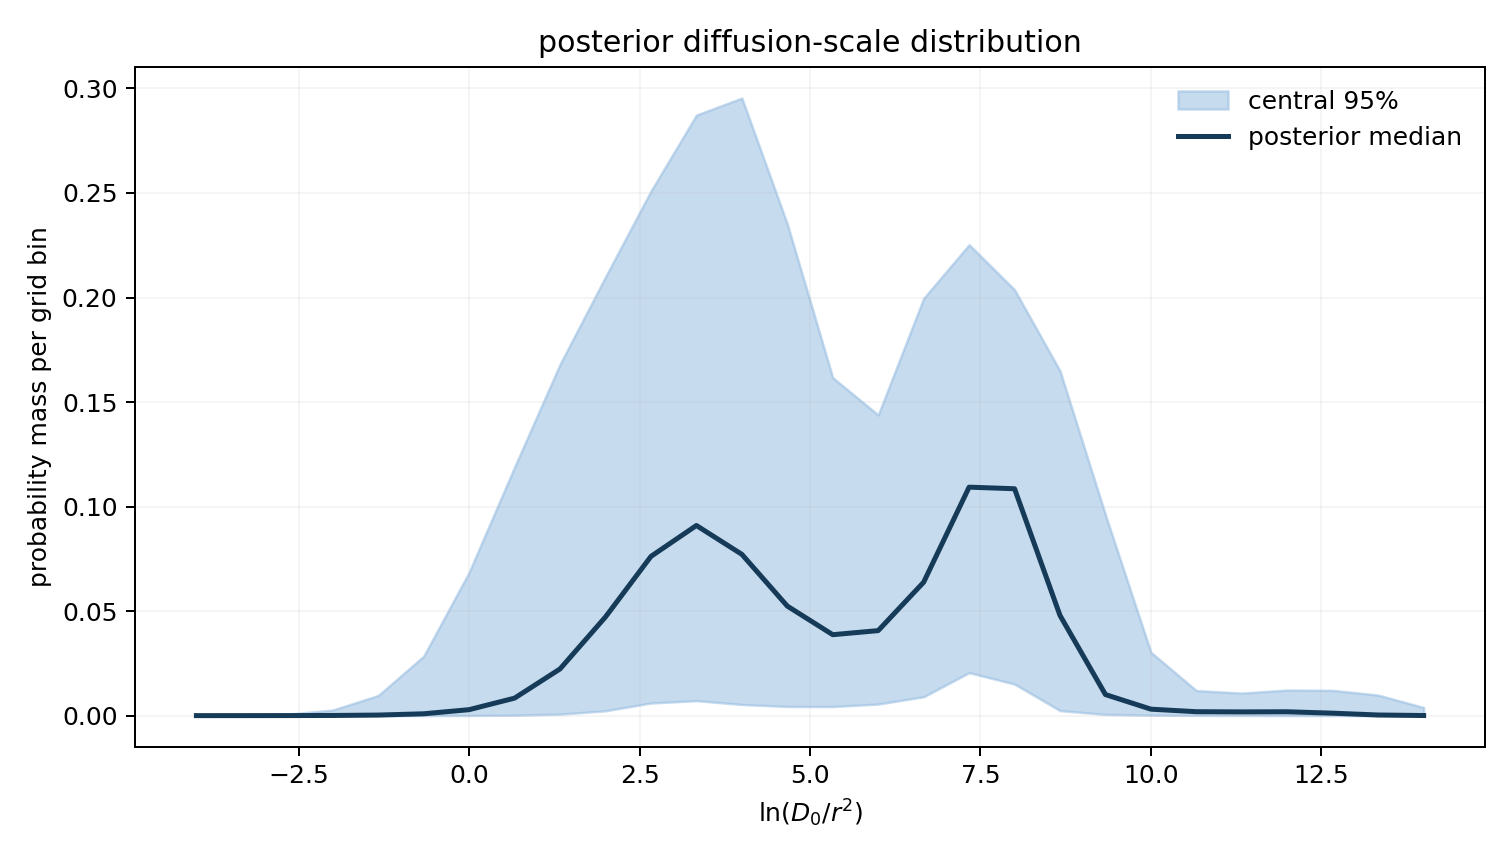
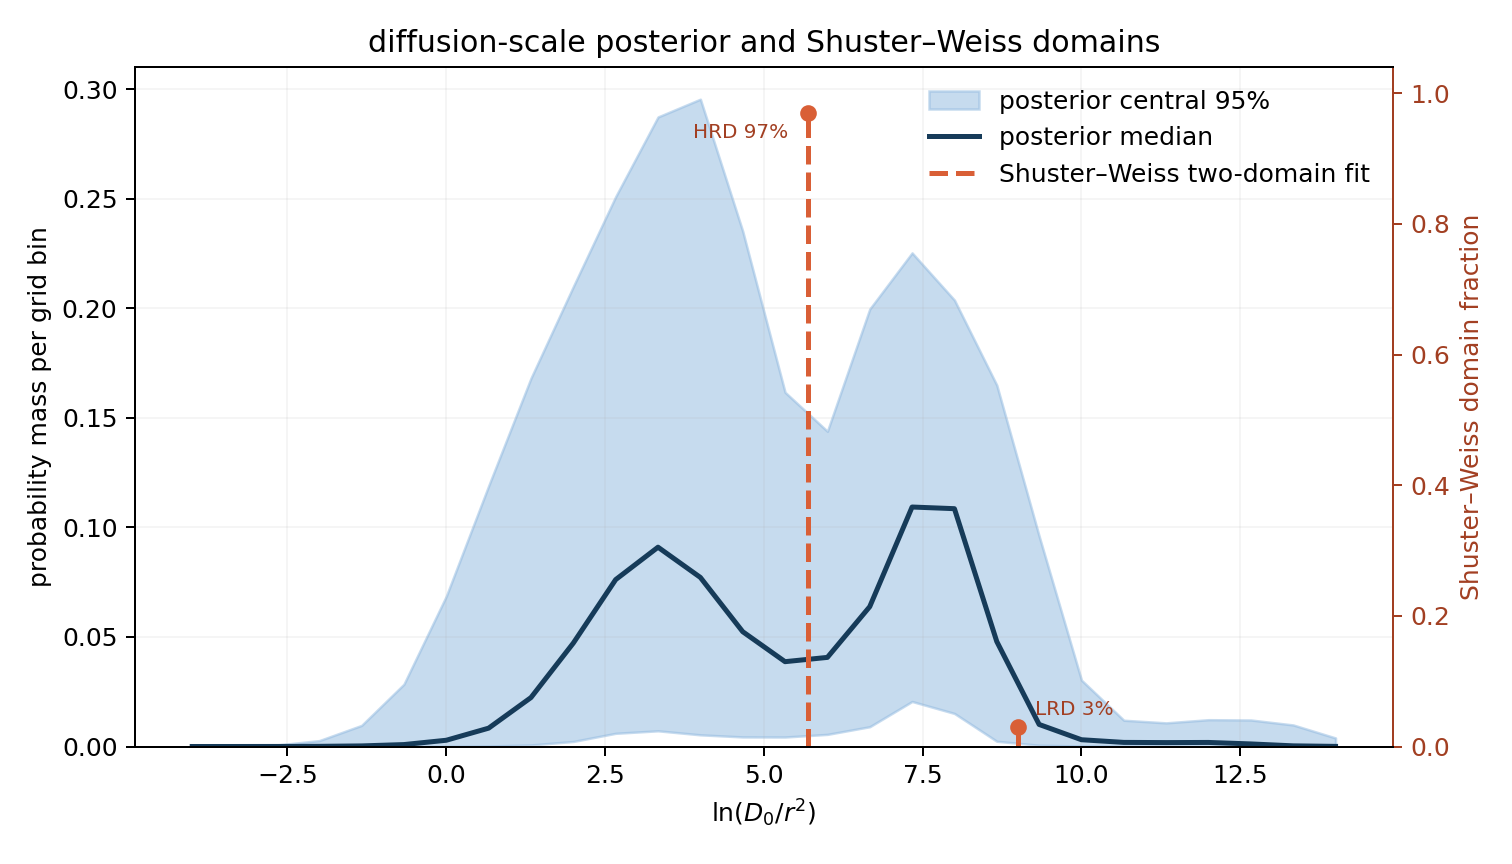
Add publication comparison and predictive plots

diff --git a/analyze_flexible_mdd.py b/analyze_flexible_mdd.py
@@ -20,6 +20,10 @@ from run_flexible_mdd import EA_MEAN, EA_SD, R_GAS, numpy_transform
 
 SECONDS_PER_MY = 1e6 * 365.25 * 24 * 3600
 K40_HALF_LIFE_MY = 1248.0
+SW_HRD_LOG_DIFFUSION_SCALE = 5.7
+SW_LRD_LOG_DIFFUSION_SCALE = 9.0
+SW_HRD_FRACTION = 0.97
+SW_LRD_FRACTION = 0.03
 
 
 def parse_args() -> argparse.Namespace:
@@ -208,12 +212,58 @@ def draw_distribution_plot(
     flat = weights.reshape(-1, weights.shape[-1])
     low, median, high = np.quantile(flat, [0.025, 0.5, 0.975], axis=0)
     fig, ax = plt.subplots(figsize=(8.4, 4.8))
-    ax.fill_between(grid, low, high, color="#8fb8df", alpha=0.5, label="central 95%")
+    ax.fill_between(grid, low, high, color="#8fb8df", alpha=0.5, label="posterior central 95%")
     ax.plot(grid, median, color="#163b59", lw=2, label="posterior median")
     ax.set_xlabel(r"$\ln(D_0/r^2)$")
     ax.set_ylabel("probability mass per grid bin")
-    ax.set_title("posterior diffusion-scale distribution")
-    ax.legend(frameon=False)
+    ax.set_title("diffusion-scale posterior and Shuster–Weiss domains")
+    ax.set_ylim(0, 0.31)
+
+    reference_ax = ax.twinx()
+    reference_ax.vlines(
+        [SW_HRD_LOG_DIFFUSION_SCALE, SW_LRD_LOG_DIFFUSION_SCALE],
+        0,
+        [SW_HRD_FRACTION, SW_LRD_FRACTION],
+        color="#d95f36",
+        lw=2,
+        linestyles="--",
+        label="Shuster–Weiss two-domain fit",
+    )
+    reference_ax.scatter(
+        [SW_HRD_LOG_DIFFUSION_SCALE, SW_LRD_LOG_DIFFUSION_SCALE],
+        [SW_HRD_FRACTION, SW_LRD_FRACTION],
+        color="#d95f36",
+        s=32,
+        zorder=4,
+    )
+    reference_ax.annotate(
+        "HRD 97%",
+        (SW_HRD_LOG_DIFFUSION_SCALE, SW_HRD_FRACTION),
+        xytext=(-8, -4),
+        textcoords="offset points",
+        ha="right",
+        va="top",
+        color="#a23f22",
+        fontsize=8,
+    )
+    reference_ax.annotate(
+        "LRD 3%",
+        (SW_LRD_LOG_DIFFUSION_SCALE, SW_LRD_FRACTION),
+        xytext=(7, 3),
+        textcoords="offset points",
+        ha="left",
+        va="bottom",
+        color="#a23f22",
+        fontsize=8,
+    )
+    reference_ax.set_ylim(0, 1.04)
+    reference_ax.set_ylabel("Shuster–Weiss domain fraction", color="#a23f22")
+    reference_ax.tick_params(axis="y", colors="#a23f22")
+    reference_ax.spines["right"].set_color("#a23f22")
+
+    handles, labels = ax.get_legend_handles_labels()
+    reference_handles, reference_labels = reference_ax.get_legend_handles_labels()
+    ax.legend(handles + reference_handles, labels + reference_labels, frameon=False)
     ax.grid(alpha=0.12)
     fig.tight_layout()
     fig.savefig(result_dir / "diffusion_distribution.png", dpi=180)
@@ -226,12 +276,22 @@ def draw_ppc_plot(
     observed: np.ndarray,
     sigma: np.ndarray,
     predictions: np.ndarray,
+    replicated: np.ndarray,
     likelihood_mask: np.ndarray,
 ) -> None:
     flat = predictions.reshape(-1, predictions.shape[-1])
-    low, median, high = np.quantile(flat, [0.025, 0.5, 0.975], axis=0)
+    median = np.quantile(flat, 0.5, axis=0)
+    replicated_flat = replicated.reshape(-1, replicated.shape[-1])
+    low, high = np.quantile(replicated_flat, [0.05, 0.95], axis=0)
     fig, ax = plt.subplots(figsize=(8.4, 4.8))
-    ax.fill_between(temperatures_c, low, high, color="#8fb8df", alpha=0.5)
+    ax.fill_between(
+        temperatures_c,
+        low,
+        high,
+        color="#8fb8df",
+        alpha=0.5,
+        label="90% posterior-predictive interval",
+    )
     ax.plot(temperatures_c, median, color="#163b59", lw=2, label="posterior prediction")
     ax.errorbar(
         temperatures_c[likelihood_mask],
@@ -401,6 +461,7 @@ def main() -> None:
         observed,
         sigma,
         predictions,
+        replicated,
         likelihood_mask,
     )
     draw_temperature_plot(args.result_dir, recent_limits)

diff --git a/artifacts/flexible_mdd_20260720/README.md b/artifacts/flexible_mdd_20260720/README.md
@@ -91,6 +91,13 @@ and at most 0.10°C at the central-interval endpoints. The 20-, 28-, and 36-bin
 grids and the rougher prior give similar recent-event limits. Monte Carlo error
 on all reported primary quantiles is below 0.09°C.
 
+`primary/diffusion_distribution.png` plots posterior mass on the flexible grid.
+Its orange, right-axis stems reproduce the Shuster–Weiss two-domain reference:
+97% HRD at `ln(D0/r²) = 5.7` and 3% LRD at `ln(D0/r²) = 9.0`.
+`primary/posterior_predictive.png` shows the 90% replicated-data interval used
+for the 14/18 coverage check, rather than only parameter uncertainty in the
+mean release schedule.
+
 ## Thermal interpretation
 
 The thermal transform uses a 1.3 Ga rock age, a 1.248 Ga potassium-40 half-life,